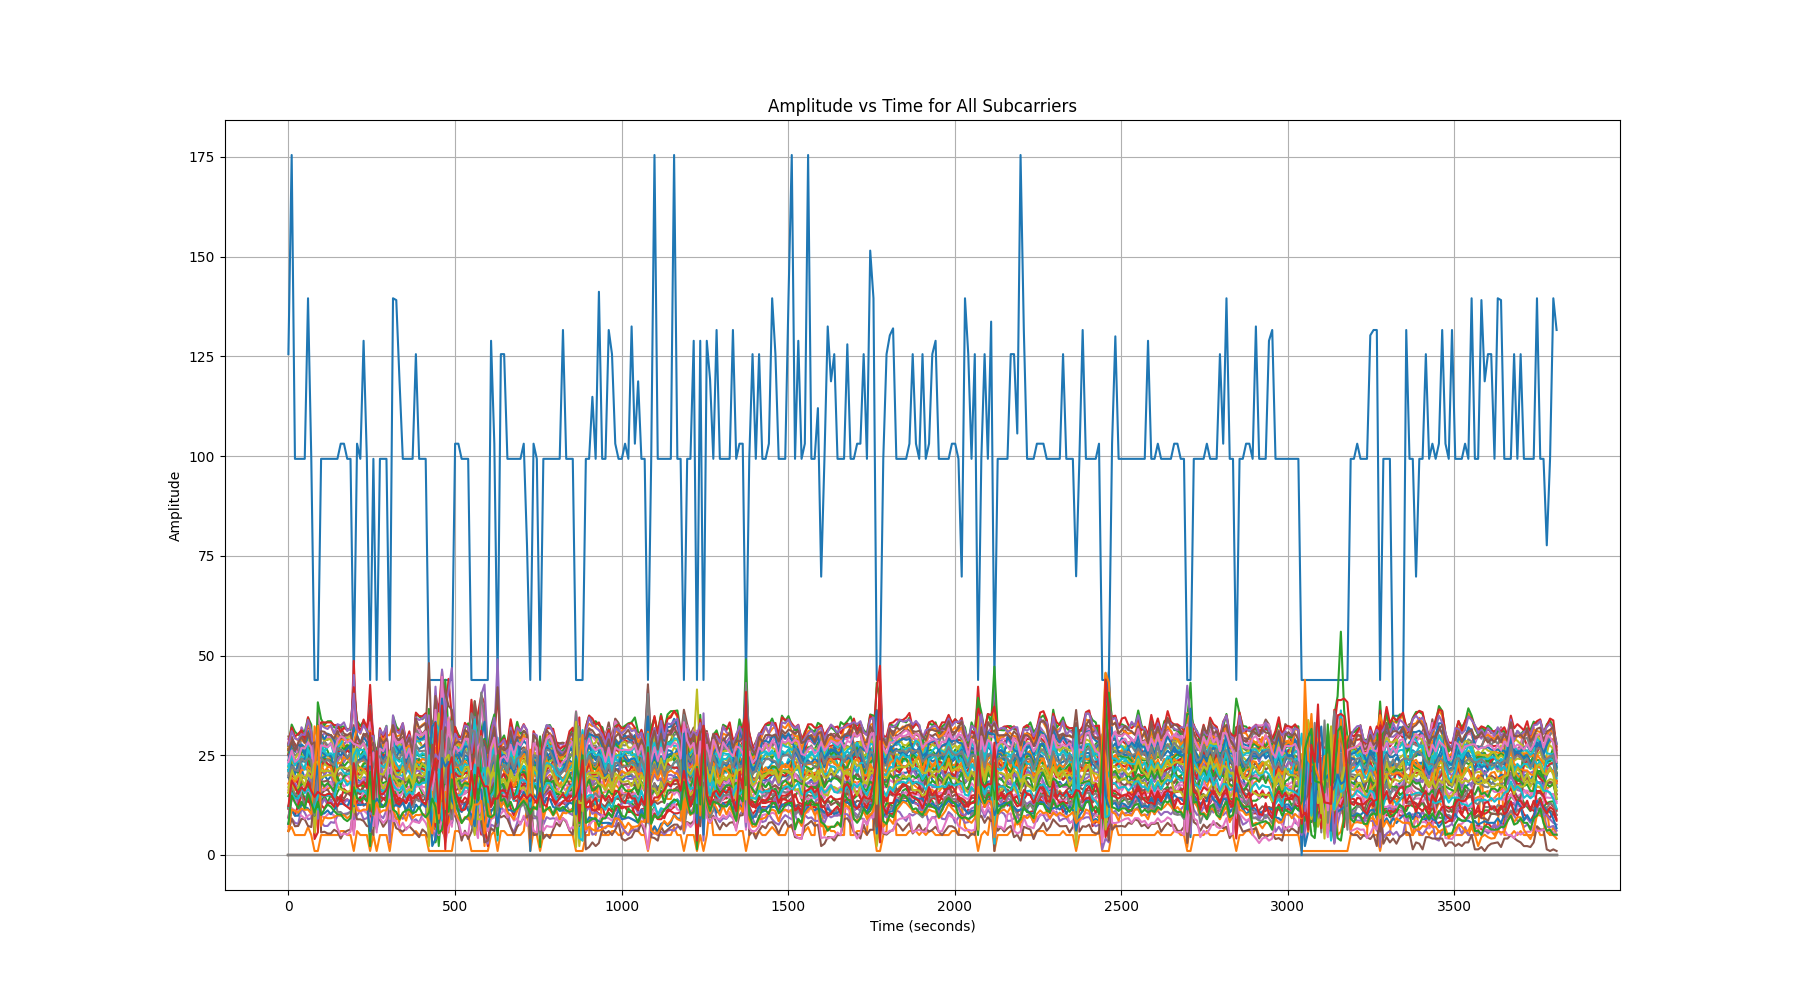
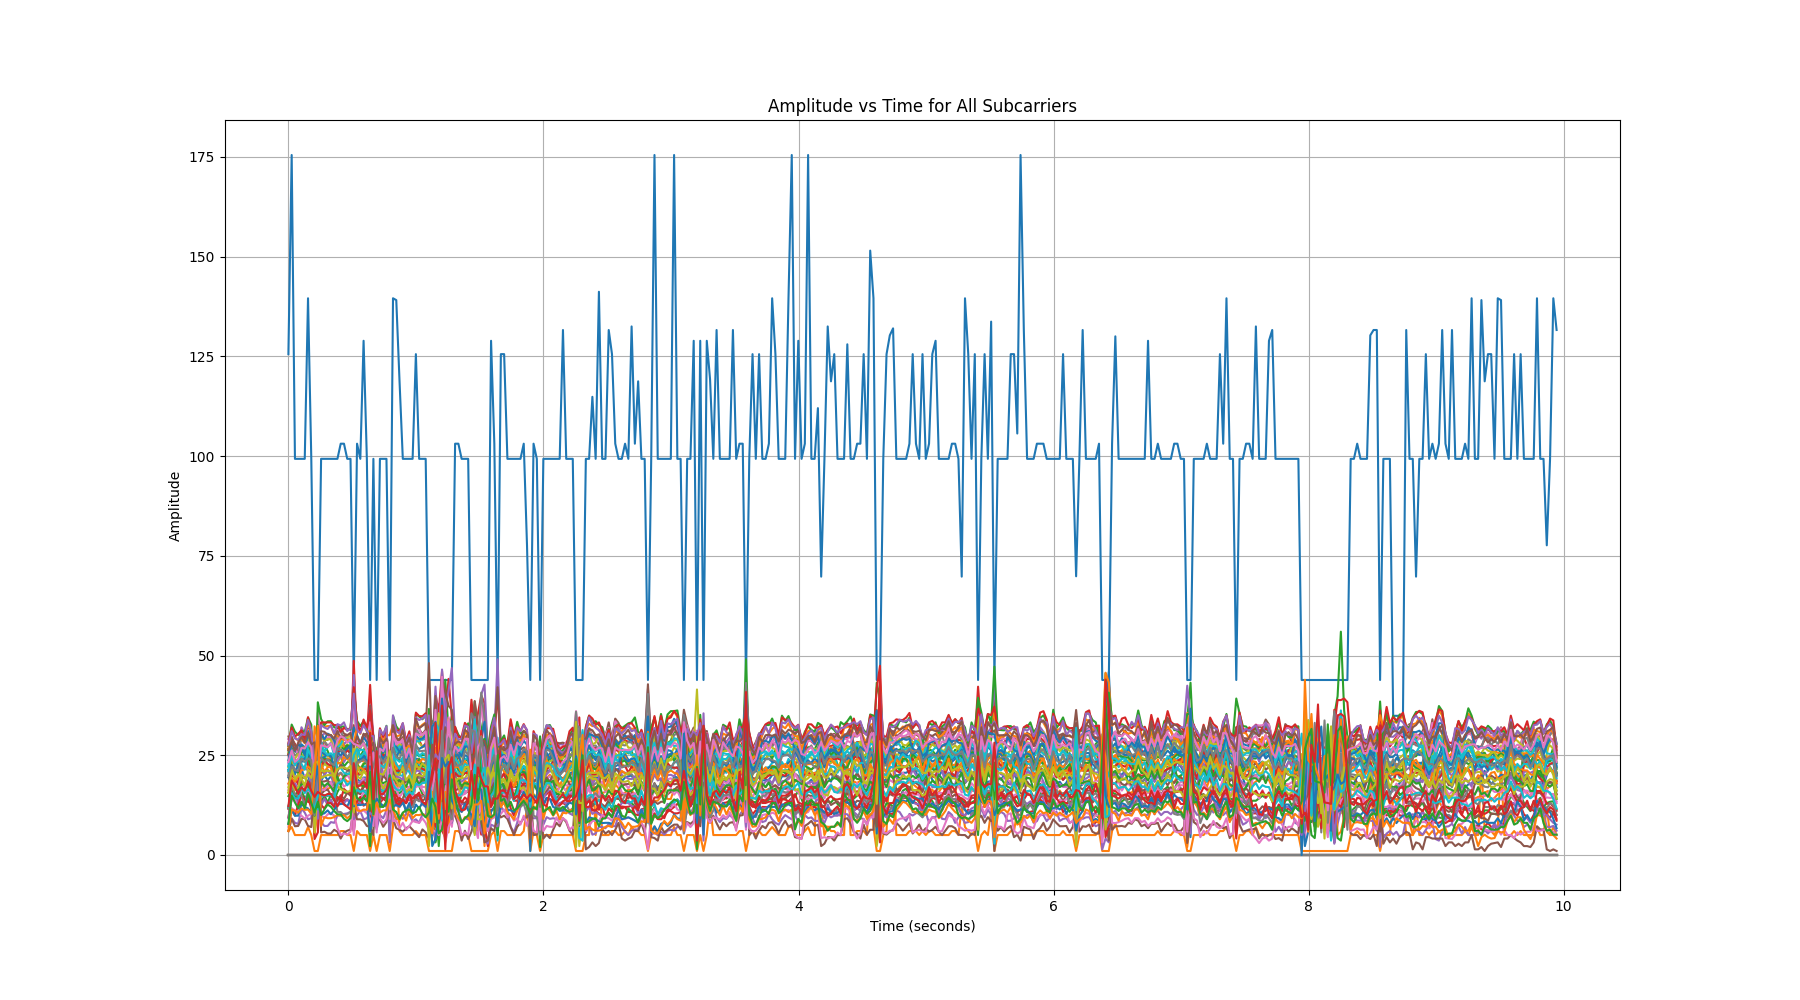
skiping already processed files for ploting

diff --git a/data_capture/csi_plot.py b/data_capture/csi_plot.py
@@ -89,7 +89,8 @@ def plot_heatmap(amplitude_data, phase_data, time_steps, output_file):
 
     # Amplitude heatmap
     plt.subplot(2, 1, 1)
-    plt.imshow(amplitude_data.T, aspect='auto', cmap='inferno', extent=[time_steps[0], time_steps[-1], 0, amplitude_data.shape[0]])
+    plt.imshow(amplitude_data.T, aspect='auto', cmap='inferno', 
+               extent=[time_steps[0], time_steps[-1], 0, amplitude_data.shape[0]])
     plt.colorbar(label='Amplitude')
     plt.title('Amplitude Heatmap of Subcarriers')
     plt.xlabel('Time (seconds)')
@@ -97,7 +98,8 @@ def plot_heatmap(amplitude_data, phase_data, time_steps, output_file):
 
     # Phase heatmap
     plt.subplot(2, 1, 2)
-    plt.imshow(phase_data.T, aspect='auto', cmap='Reds', vmin=-np.pi, vmax=np.pi, extent=[time_steps[0], time_steps[-1], 0, phase_data.shape[0]])
+    plt.imshow(phase_data.T, aspect='auto', cmap='Reds', vmin=-np.pi, vmax=np.pi, 
+               extent=[time_steps[0], time_steps[-1], 0, phase_data.shape[0]])
     plt.colorbar(label='Phase (radians)')
     plt.title('Phase Heatmap of Subcarriers')
     plt.xlabel('Time (seconds)')
@@ -109,32 +111,36 @@ def plot_heatmap(amplitude_data, phase_data, time_steps, output_file):
     print(f"Combined heatmap saved at: {output_file}")
 
 # Function to process and plot graphs for amplitude and phase data
-def process_and_plot_graphs(amplitude_directory, phase_directory, plot_directory, time_steps):
-    for filename in os.listdir(amplitude_directory):
-        if filename.endswith(".csv"):
-            amplitude_file_path = os.path.join(amplitude_directory, filename)
-            phase_file_path = os.path.join(phase_directory, filename)
+def process_and_plot_graphs(amplitude_directory, phase_directory, plot_directory, time_steps, filename):
+    # Check if output files already exist
+    output_file_heatmap = os.path.join(plot_directory, f"{filename.replace('.csv', '')}_heatmap.png")
+    output_file_amp = os.path.join(plot_directory, f"{filename.replace('.csv', '')}_amp_all_subcarriers.png")
+    output_file_phase = os.path.join(plot_directory, f"{filename.replace('.csv', '')}_phase_all_subcarriers.png")
 
-            amplitude_data = load_phase_amp_data_from_csv(amplitude_file_path)
-            phase_data = load_phase_amp_data_from_csv(phase_file_path)
+    if (os.path.exists(output_file_heatmap) and 
+        os.path.exists(output_file_amp) and 
+        os.path.exists(output_file_phase)):
+        print(f"Files for {filename} already processed. Skipping...")
+        return
 
-            # Ensure amplitude and phase data have the same shape
-            if amplitude_data.shape != phase_data.shape or amplitude_data.size == 0 or phase_data.size == 0:
-                print(f"Warning: Shape mismatch or empty data for {filename}. Skipping...")
-                continue
+    amplitude_file_path = os.path.join(amplitude_directory, filename)
+    phase_file_path = os.path.join(phase_directory, filename)
 
-            # Calculate time steps for heatmap based on amplitude data
-            time_steps_for_heatmap = np.arange(amplitude_data.shape[0]) * (1 / np.mean(np.diff(time_steps)))
+    amplitude_data = load_phase_amp_data_from_csv(amplitude_file_path)
+    phase_data = load_phase_amp_data_from_csv(phase_file_path)
 
-            # Save plots
-            output_file_heatmap = os.path.join(plot_directory, f"{filename.replace('.csv', '')}_heatmap.png")
-            plot_heatmap(amplitude_data, phase_data, time_steps_for_heatmap, output_file_heatmap)
+    # Ensure amplitude and phase data have the same shape
+    if amplitude_data.shape != phase_data.shape or amplitude_data.size == 0 or phase_data.size == 0:
+        print(f"Warning: Shape mismatch or empty data for {filename}. Skipping...")
+        return
 
-            output_file_amp = os.path.join(plot_directory, f"{filename.replace('.csv', '')}_amp_all_subcarriers.png")
-            plot_amplitude_for_all_subcarriers(amplitude_data, time_steps_for_heatmap, output_file_amp)
+    # Calculate time steps for heatmap based on amplitude data
+    time_steps_for_heatmap = np.linspace(time_steps[0], time_steps[-1], amplitude_data.shape[0])
 
-            output_file_phase = os.path.join(plot_directory, f"{filename.replace('.csv', '')}_phase_all_subcarriers.png")
-            plot_phase_for_all_subcarriers(phase_data, time_steps_for_heatmap, output_file_phase)
+    # Save plots
+    plot_heatmap(amplitude_data, phase_data, time_steps_for_heatmap, output_file_heatmap)
+    plot_amplitude_for_all_subcarriers(amplitude_data, time_steps_for_heatmap, output_file_amp)
+    plot_phase_for_all_subcarriers(phase_data, time_steps_for_heatmap, output_file_phase)
 
 # Main function to process CSI files
 def process_and_plot_csi_files(csi_directory, plot_directory):
@@ -142,6 +148,17 @@ def process_and_plot_csi_files(csi_directory, plot_directory):
         if filename.endswith(".csv"):
             file_path = os.path.join(csi_directory, filename)
             print(f"Processing file: {file_path}")
+
+            # Check if output files already exist
+            output_file_heatmap = os.path.join(plot_directory, f"{filename.replace('.csv', '')}_heatmap.png")
+            output_file_amp = os.path.join(plot_directory, f"{filename.replace('.csv', '')}_amp_all_subcarriers.png")
+            output_file_phase = os.path.join(plot_directory, f"{filename.replace('.csv', '')}_phase_all_subcarriers.png")
+
+            if (os.path.exists(output_file_heatmap) and 
+                os.path.exists(output_file_amp) and 
+                os.path.exists(output_file_phase)):
+                print(f"Files for {filename} already processed. Skipping...")
+                continue
 
             csi_data, timestamps = load_csi_data(file_path)
 
@@ -158,7 +175,7 @@ def process_and_plot_csi_files(csi_directory, plot_directory):
                 continue
 
             time_steps = np.arange(csi_matrix.shape[0]) / sampling_rate_csi
-            process_and_plot_graphs(amplitude_directory, phase_directory, plot_directory, time_steps)
+            process_and_plot_graphs(amplitude_directory, phase_directory, plot_directory, time_steps, filename)
 
 if __name__ == "__main__":
     process_and_plot_csi_files(csi_directory, plot_directory)
